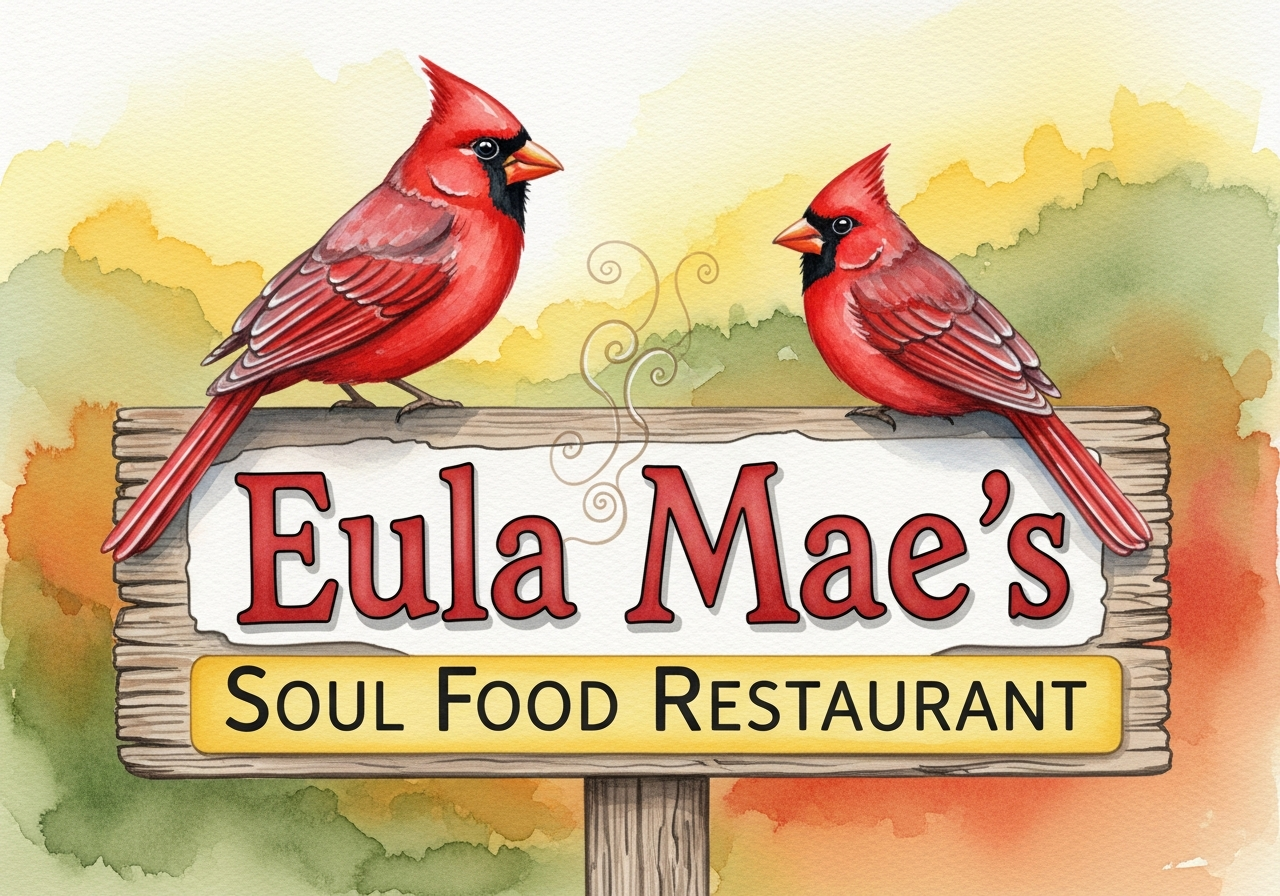
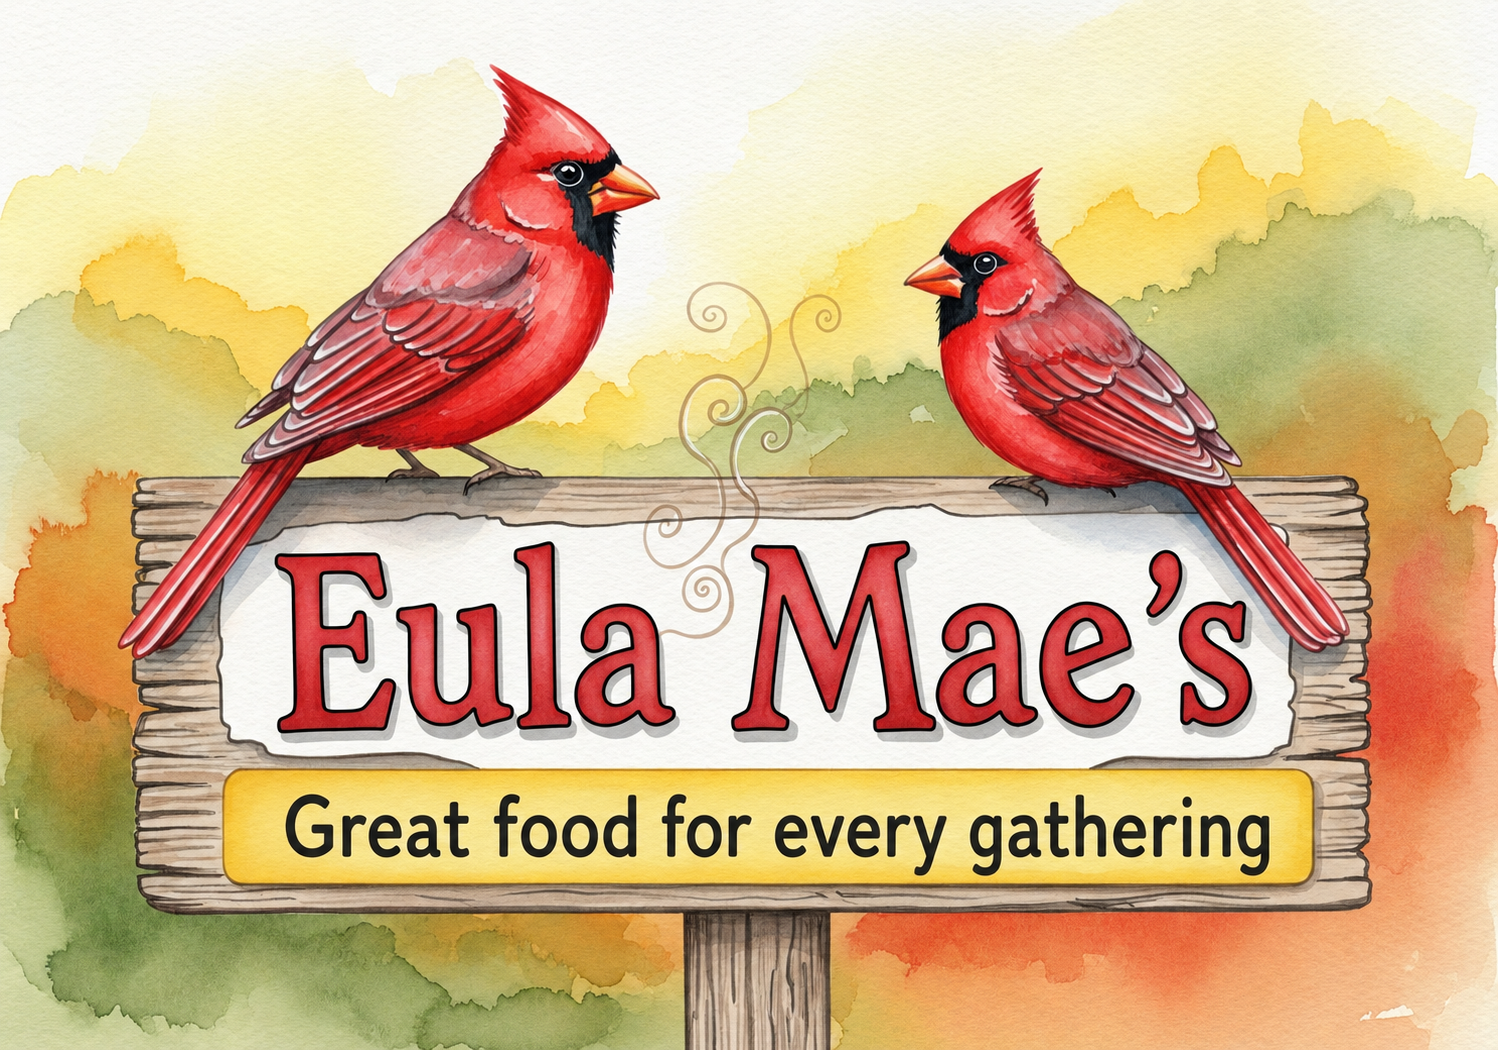
Updated chagnes

diff --git a/src/pages/Menu.tsx b/src/pages/Menu.tsx
@@ -249,7 +249,8 @@ export default function Menu() {
                   <MenuItem name="Wing & Chicken Tender Combo" price="$14.00" desc="5 Wings and 3 Tenders with fries and your choice of sauce." />
                   <MenuItem name="Ribeye Sandwich" price="$12.00" desc="Tender marbled ribeye served on a brioche bun." />
                   <MenuItem name="Cheeseburger / Hamburger" price="$12.00" desc="2.3 OZ Handmade patties served with melted American cheese, fresh lettuce, onion, and tomato." note="+ Add homemade pimento cheese $2.00" />
-                  <MenuItem name="Hamburger Steak" price="$10 / $13" desc="6 OZ or 8 OZ Ground beef patty served with brown gravy and sautéed onions." />
+                  <MenuItem name="Hamburger Steak 6 OZ" price="$10" desc="6 OZ Ground beef patty served with brown gravy and sautéed onions." />
+                  <MenuItem name="Hamburger Steak 8 OZ" price="$13" desc="8 OZ Ground beef patty served with brown gravy and sautéed onions." />
                 </div>
 
                 <BeveragesBox />

diff --git a/src/components/home/Hero.tsx b/src/components/home/Hero.tsx
@@ -39,7 +39,7 @@ export const Hero = () => (
         transition={{ duration: 0.5, delay: 0.1, ease: "easeOut" }}
         className="text-[#F5EFE0] text-base md:text-xl font-medium tracking-wide mb-10"
       >
-        The flavors of home, the warmth of family, and the legacy of Eula Mae.
+        Made with love just like mumma would.
       </motion.p>
 
       <motion.div

diff --git a/src/pages/Home.tsx b/src/pages/Home.tsx
@@ -214,7 +214,7 @@ export default function Home() {
             transition={{ duration: 0.5, delay: 0.1, ease: "easeOut" }}
             className="text-[#F5EFE0] text-base md:text-xl font-medium tracking-wide mb-10"
           >
-            The flavors of home, the warmth of family, and the legacy of Eula Mae.
+            Made with love just like mumma would.
           </motion.p>
           
           <motion.div